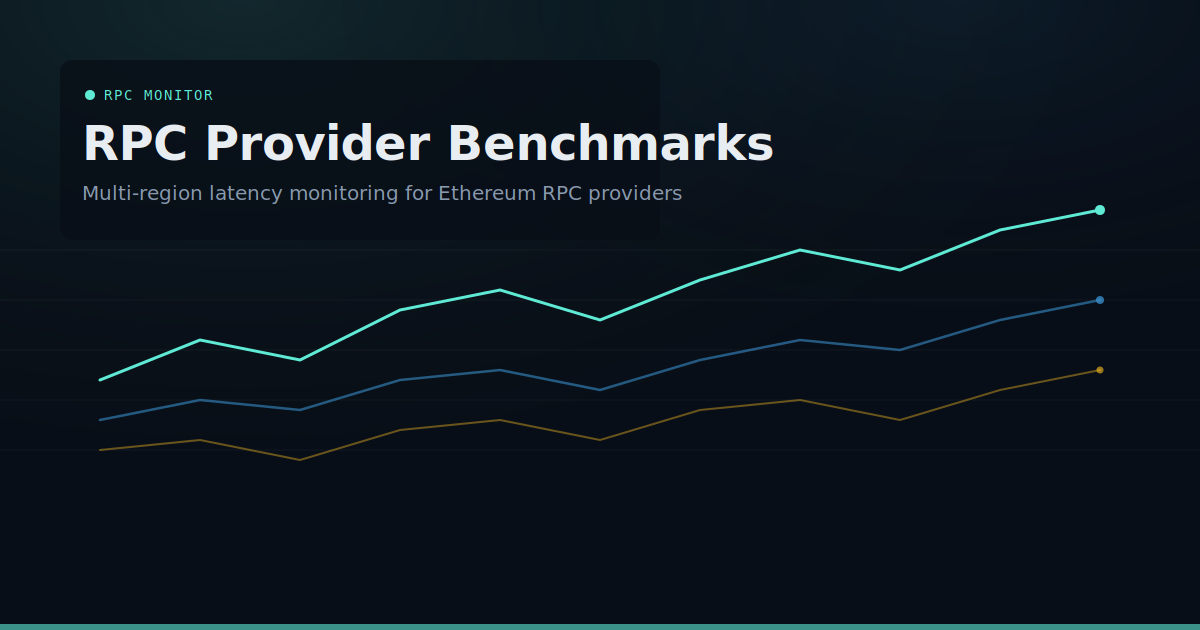
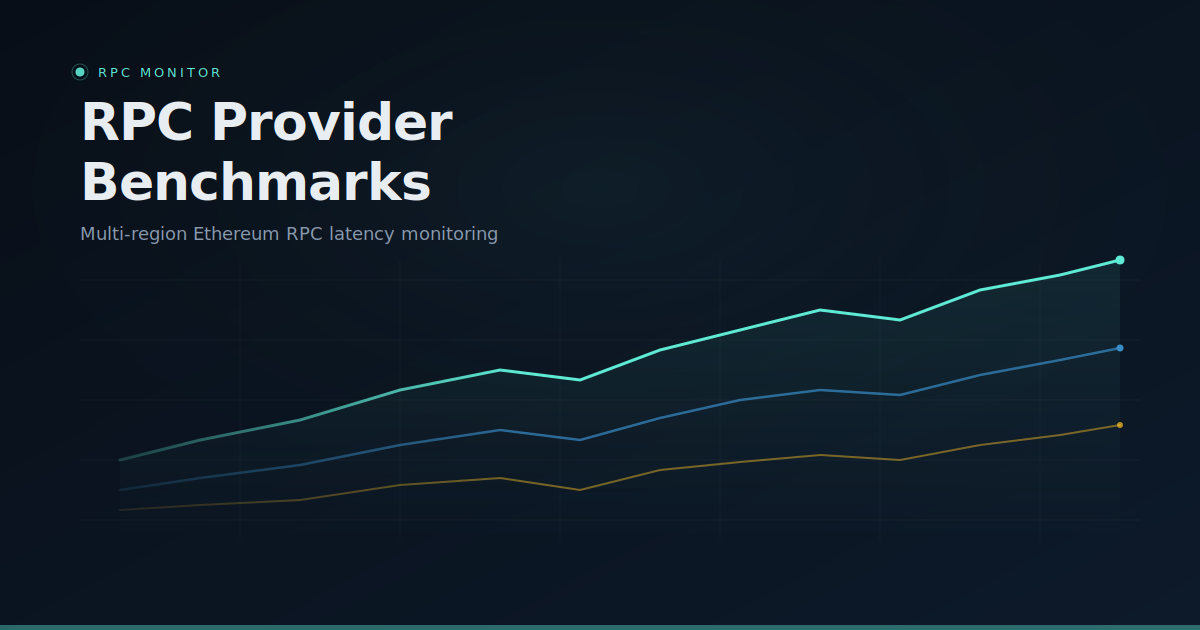
Improve OG image design, shorten descriptions, use absolute URLs
Redesign OG image with better layout, gradient area fill, and cleaner
typography. Shorten meta descriptions and use absolute URLs for og:image
and twitter:image as required by social media crawlers.

https://claude.ai/code/session_01JWke3u6SsdWTkCpFAh9Giy

diff --git a/packages/dashboard/index.html b/packages/dashboard/index.html
@@ -3,24 +3,25 @@
   <head>
     <meta charset="UTF-8" />
     <meta name="viewport" content="width=device-width, initial-scale=1.0" />
-    <title>RPC Monitor — Ethereum RPC Provider Benchmarks</title>
-    <meta name="description" content="Multi-region latency monitoring and benchmarks for Ethereum RPC providers. Compare p50, p95, and success rates across providers and regions." />
+    <title>RPC Monitor</title>
+    <meta name="description" content="Multi-region latency benchmarks for Ethereum RPC providers." />
     <meta name="theme-color" content="#080e17" />
     <link rel="icon" type="image/svg+xml" href="/favicon.svg" />
 
     <!-- Open Graph -->
     <meta property="og:type" content="website" />
-    <meta property="og:title" content="RPC Monitor — Ethereum RPC Provider Benchmarks" />
-    <meta property="og:description" content="Multi-region latency monitoring and benchmarks for Ethereum RPC providers. Compare p50, p95, and success rates across providers and regions." />
-    <meta property="og:image" content="/og.png" />
+    <meta property="og:title" content="RPC Monitor" />
+    <meta property="og:description" content="Multi-region latency benchmarks for Ethereum RPC providers." />
+    <meta property="og:image" content="https://rpc-monitor.up.railway.app/og.png" />
     <meta property="og:image:width" content="1200" />
     <meta property="og:image:height" content="630" />
+    <meta property="og:url" content="https://rpc-monitor.up.railway.app" />
 
     <!-- Twitter Card -->
     <meta name="twitter:card" content="summary_large_image" />
-    <meta name="twitter:title" content="RPC Monitor — Ethereum RPC Provider Benchmarks" />
-    <meta name="twitter:description" content="Multi-region latency monitoring and benchmarks for Ethereum RPC providers." />
-    <meta name="twitter:image" content="/og.png" />
+    <meta name="twitter:title" content="RPC Monitor" />
+    <meta name="twitter:description" content="Multi-region latency benchmarks for Ethereum RPC providers." />
+    <meta name="twitter:image" content="https://rpc-monitor.up.railway.app/og.png" />
 
     <link rel="preconnect" href="https://fonts.googleapis.com" />
     <link rel="preconnect" href="https://fonts.gstatic.com" crossorigin />